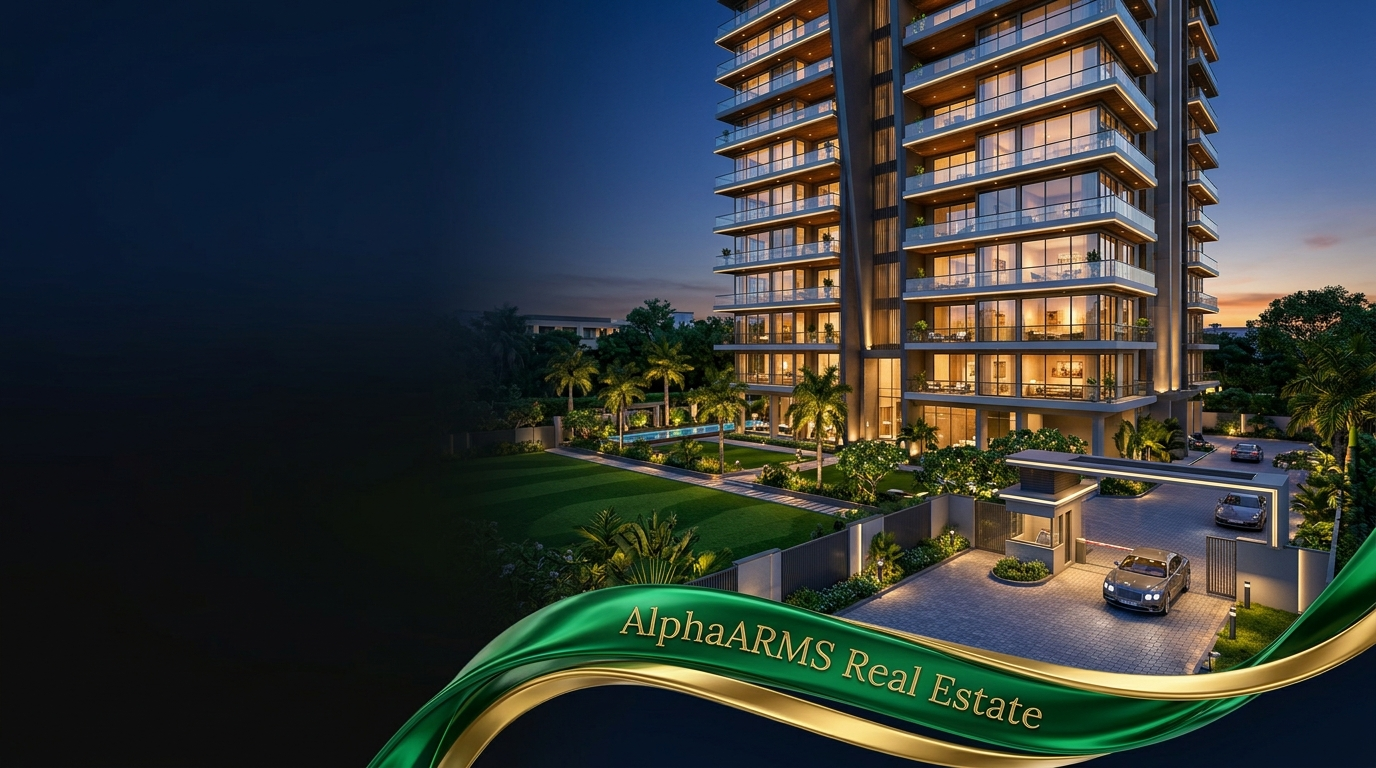
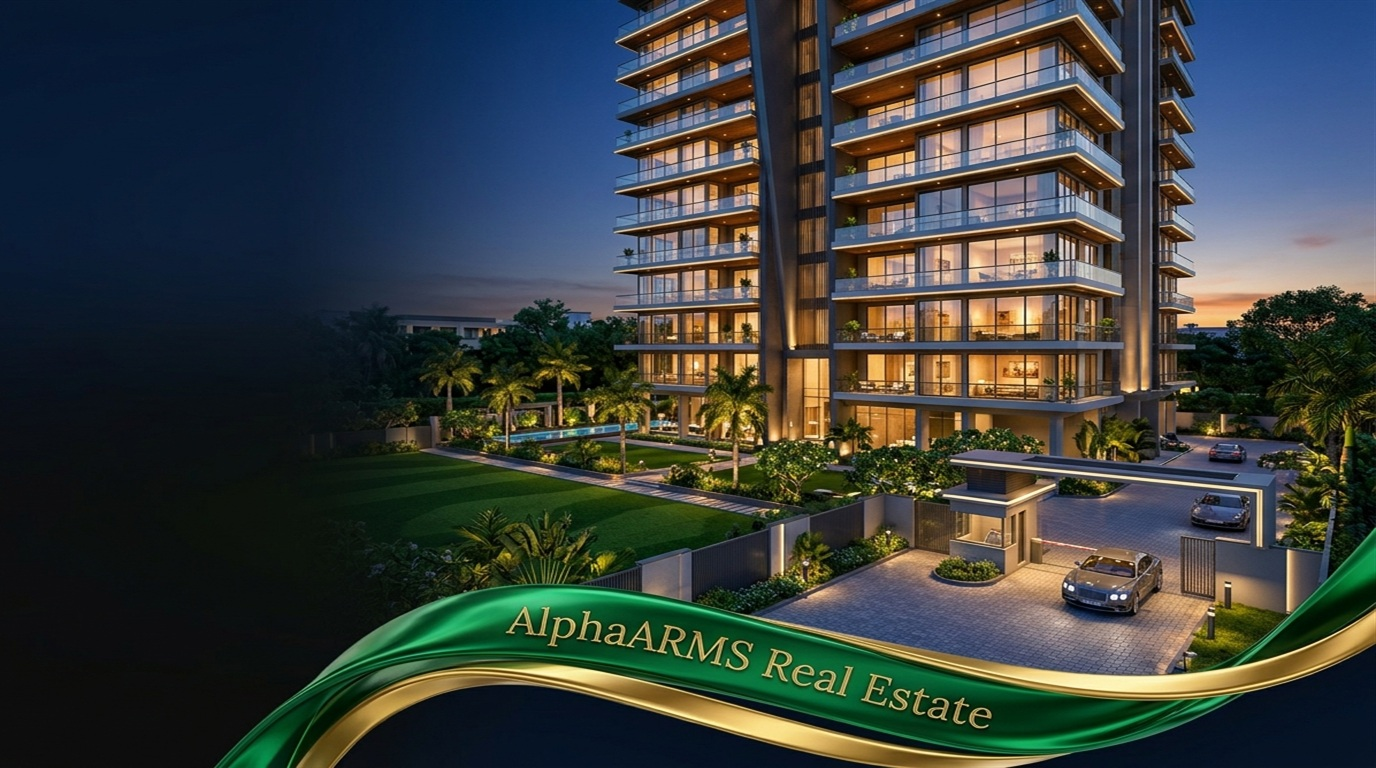
style(login): crop empty dark navy from background image and center luxury building across viewport

diff --git a/src/app/LoginPage.tsx b/src/app/LoginPage.tsx
@@ -155,7 +155,7 @@ export default function LoginPage() {
                 style={{
                     backgroundImage: `url('/login-bg.jpg')`,
                     backgroundSize: 'cover',
-                    backgroundPosition: 'right center',
+                    backgroundPosition: 'center',
                 }}
             >
                 {/* Seamless Midnight Navy Gradient Overlay */}
@@ -163,7 +163,7 @@ export default function LoginPage() {
                     className="absolute inset-0 pointer-events-none"
                     style={{
                         background:
-                            'linear-gradient(to right, rgba(4, 18, 38, 0.88) 0%, rgba(4, 18, 38, 0.50) 10%, rgba(4, 18, 38, 0.12) 18%, transparent 25%)',
+                            'linear-gradient(to right, rgba(4, 18, 38, 0.65) 0%, rgba(4, 18, 38, 0.20) 10%, transparent 18%)',
                     }}
                 />
 
